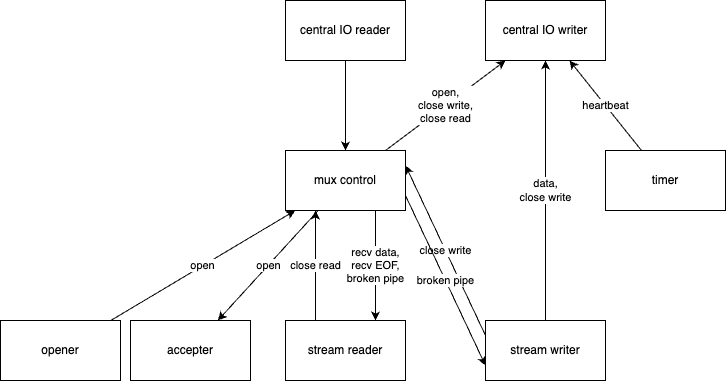
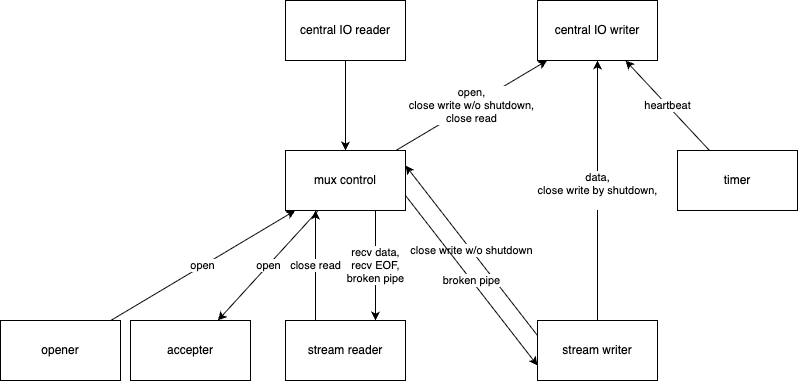
stream writer: send "write close" to peer on writer shutdown

diff --git a/tests/stream_writer.rs b/tests/stream_writer.rs
@@ -1,0 +1,104 @@
+use std::time::Duration;
+
+use mux::{spawn_mux_no_reconnection, Initiation, MuxConfig};
+use tokio::{
+    io::{duplex, AsyncReadExt, AsyncWriteExt},
+    task::JoinSet,
+};
+
+// A large buffer for the duplex pipes so that the central io writers never
+// block on writes during the test.
+const DUPLEX_BUF: usize = 64 * 1024;
+
+// Spins up a pair of mux endpoints connected through tokio duplex pipes and
+// returns the client-side opener, the server-side accepter and the join set
+// holding the background tasks.
+fn spawn_mux_pair() -> (
+    mux::StreamOpener,
+    mux::StreamAccepter,
+    JoinSet<mux::MuxError>,
+) {
+    let mut spawner = JoinSet::new();
+
+    // (client_read, server_write) and (server_read, client_write) form the two
+    // directions of the underlying byte stream.
+    let (client_read, server_write) = duplex(DUPLEX_BUF);
+    let (server_read, client_write) = duplex(DUPLEX_BUF);
+
+    let (client_opener, _client_accepter) = spawn_mux_no_reconnection(
+        client_read,
+        client_write,
+        MuxConfig {
+            initiation: Initiation::Client,
+            heartbeat_interval: Duration::from_secs(60),
+        },
+        &mut spawner,
+    );
+    let (_server_opener, server_accepter) = spawn_mux_no_reconnection(
+        server_read,
+        server_write,
+        MuxConfig {
+            initiation: Initiation::Server,
+            heartbeat_interval: Duration::from_secs(60),
+        },
+        &mut spawner,
+    );
+
+    (client_opener, server_accepter, spawner)
+}
+
+#[tokio::test(flavor = "multi_thread")]
+async fn manual_shutdown_reaches_peer() {
+    let (client_opener, mut server_accepter, _spawner) = spawn_mux_pair();
+
+    // Open a stream from the client and accept it on the server.
+    let (_client_reader, mut client_writer) = client_opener.open().await.unwrap();
+    let (mut server_reader, _server_writer) = server_accepter.accept().await.unwrap();
+
+    // Perform the manual shutdown on the writer.
+    client_writer.shutdown().await.unwrap();
+
+    // The peer must observe EOF on its reader: a read of any size returns 0.
+    let mut buf = [0u8; 8];
+    let n = server_reader.read(&mut buf).await.unwrap();
+    assert_eq!(n, 0, "peer reader should observe EOF after shutdown");
+}
+
+#[tokio::test(flavor = "multi_thread")]
+async fn drop_writer_does_not_break_peer() {
+    let (client_opener, mut server_accepter, _spawner) = spawn_mux_pair();
+
+    // Open a stream from the client and accept it on the server.
+    let (_client_reader, client_writer) = client_opener.open().await.unwrap();
+    let (mut server_reader, mut server_writer) = server_accepter.accept().await.unwrap();
+
+    // Drop the client-side writer without an explicit shutdown.
+    drop(client_writer);
+    // Give the background tasks a moment to process the close message that
+    // the StreamCloseTx Drop emits.
+    tokio::task::yield_now().await;
+
+    // Dropping the client writer should not break the mux connection: the
+    // peer must still be able to open new streams and exchange data.
+    let (mut client_reader2, _client_writer2) = client_opener.open().await.unwrap();
+    let (_server_reader2, mut server_writer2) = server_accepter.accept().await.unwrap();
+
+    let payload = b"still alive";
+    server_writer2.write_all(payload).await.unwrap();
+    server_writer2.shutdown().await.unwrap();
+
+    let mut got = [0u8; 11];
+    client_reader2.read_exact(&mut got).await.unwrap();
+    assert_eq!(&got, payload);
+
+    // The peer's reader on the first stream should observe EOF (the dropped
+    // writer triggers a close-write control message, which surfaces as a
+    // graceful EOF rather than a broken pipe).
+    let mut buf = [0u8; 8];
+    let n = server_reader.read(&mut buf).await.unwrap();
+    assert_eq!(n, 0, "dropping writer should surface as graceful EOF");
+
+    // The peer's writer on the first stream should still be usable enough to
+    // be shut down cleanly without panicking.
+    server_writer.shutdown().await.unwrap();
+}

diff --git a/src/stream/writer.rs b/src/stream/writer.rs
@@ -4,7 +4,7 @@ use std::{
     num::NonZeroUsize,
     ops::DerefMut,
     pin::Pin,
-    task::{ready, Context, Poll},
+    task::{ready, Context, Poll, Waker},
 };
 
 use primitive::arena::obj_pool::ArcObjPool;
@@ -28,14 +28,6 @@ struct StreamWriterState {
     broken_pipe: WriteBrokenPipe,
     close: Option<StreamCloseTx>,
     buf_pool: ArcObjPool<Vec<u8>>,
-}
-impl Drop for StreamWriterState {
-    fn drop(&mut self) {
-        let Some(mut close) = self.close.take() else {
-            return;
-        };
-        close.no_send_to_peer()
-    }
 }
 impl StreamWriterState {
     pub fn new(broken_pipe: WriteBrokenPipe, close: StreamCloseTx) -> Self {
@@ -68,6 +60,24 @@ impl StreamWriterState {
             .map_err(SendError::DeadCentralIo)?;
         Ok(data_len).into()
     }
+    pub fn poll_shutdown(
+        &mut self,
+        data: &mut PollStreamWriteDataTx,
+        cx: &mut Context<'_>,
+    ) -> Poll<Result<(), SendError>> {
+        if self.close.is_none() {
+            return Ok(()).into();
+        }
+        if self.broken_pipe.is_closed() {
+            return Err(SendError::PeerClosedStream).into();
+        }
+        ready!(data.poll_preserve(cx)).map_err(SendError::DeadCentralIo)?;
+        data.send_item(StreamWriteData::Fin)
+            .map_err(SendError::DeadCentralIo)?;
+        let mut close = self.close.take().unwrap();
+        close.mark_close_sent_to_peer();
+        Ok(()).into()
+    }
 }
 #[derive(Debug)]
 pub enum SendError {
@@ -81,6 +91,12 @@ pub struct StreamWriter {
     data: PollStreamWriteDataTx,
     state: StreamWriterState,
 }
+impl Drop for StreamWriter {
+    fn drop(&mut self) {
+        let mut cx = Context::from_waker(Waker::noop());
+        let _ = self.poll_shutdown_(&mut cx);
+    }
+}
 impl StreamWriter {
     pub(crate) fn new(
         data: StreamWriteDataTx,
@@ -93,6 +109,12 @@ impl StreamWriter {
             state,
         }
     }
+    fn poll_write_(&mut self, buf: &[u8], cx: &mut Context<'_>) -> Poll<Result<usize, SendError>> {
+        self.state.poll_write(&mut self.data, buf, cx)
+    }
+    fn poll_shutdown_(&mut self, cx: &mut Context<'_>) -> Poll<Result<(), SendError>> {
+        self.state.poll_shutdown(&mut self.data, cx)
+    }
     pub async fn write(&mut self, buf: &[u8]) -> Result<usize, SendError> {
         struct StreamWriterWrite<'a> {
             wtr: &'a mut StreamWriter,
@@ -102,10 +124,23 @@ impl StreamWriter {
             type Output = Result<usize, SendError>;
             fn poll(mut self: Pin<&mut Self>, cx: &mut Context<'_>) -> Poll<Self::Output> {
                 let this = self.deref_mut();
-                this.wtr.state.poll_write(&mut this.wtr.data, this.buf, cx)
+                this.wtr.poll_write_(this.buf, cx)
             }
         }
         StreamWriterWrite { wtr: self, buf }.await
+    }
+    pub async fn shutdown(&mut self) -> Result<(), SendError> {
+        struct StreamWriterShutdown<'a> {
+            wtr: &'a mut StreamWriter,
+        }
+        impl Future for StreamWriterShutdown<'_> {
+            type Output = Result<(), SendError>;
+            fn poll(mut self: Pin<&mut Self>, cx: &mut Context<'_>) -> Poll<Self::Output> {
+                let this = self.deref_mut();
+                this.wtr.poll_shutdown_(cx)
+            }
+        }
+        StreamWriterShutdown { wtr: self }.await
     }
 }
 impl AsyncWrite for StreamWriter {
@@ -115,18 +150,25 @@ impl AsyncWrite for StreamWriter {
         buf: &[u8],
     ) -> Poll<Result<usize, io::Error>> {
         let this = self.deref_mut();
-        this.state
-            .poll_write(&mut this.data, buf, cx)
-            .map_err(|e| match e {
-                SendError::LocalClosedStream => io::ErrorKind::NotConnected.into(),
-                SendError::PeerClosedStream => io::ErrorKind::BrokenPipe.into(),
-                SendError::DeadCentralIo(_) => io::ErrorKind::BrokenPipe.into(),
-            })
+        this.poll_write_(buf, cx)
+            .map_err(map_send_error_to_io_error)
     }
     fn poll_flush(self: Pin<&mut Self>, _cx: &mut Context<'_>) -> Poll<Result<(), io::Error>> {
         Ok(()).into()
     }
-    fn poll_shutdown(self: Pin<&mut Self>, _cx: &mut Context<'_>) -> Poll<Result<(), io::Error>> {
-        Ok(()).into()
+    fn poll_shutdown(
+        mut self: Pin<&mut Self>,
+        cx: &mut Context<'_>,
+    ) -> Poll<Result<(), io::Error>> {
+        let this = self.deref_mut();
+        this.poll_shutdown_(cx).map_err(map_send_error_to_io_error)
+    }
+}
+
+fn map_send_error_to_io_error(e: SendError) -> io::Error {
+    match e {
+        SendError::LocalClosedStream => io::ErrorKind::NotConnected.into(),
+        SendError::PeerClosedStream => io::ErrorKind::BrokenPipe.into(),
+        SendError::DeadCentralIo(_) => io::ErrorKind::BrokenPipe.into(),
     }
 }

diff --git a/src/stream/mod.rs b/src/stream/mod.rs
@@ -18,7 +18,7 @@ pub struct StreamInitHandle {
 pub struct StreamCloseMsg {
     pub side: Side,
     pub stream_id: StreamId,
-    pub no_send_to_peer: bool,
+    pub already_sent_to_peer: bool,
 }
 pub fn stream_close_channel() -> (StreamCloseTxPrototype, StreamCloseRx) {
     let (tx, rx) = tokio::sync::mpsc::unbounded_channel();
@@ -36,7 +36,7 @@ impl StreamCloseTxPrototype {
             stream_id,
             side,
             tx: self.tx.clone(),
-            no_send_to_peer: false,
+            already_sent_to_peer: false,
         }
     }
 }
@@ -45,11 +45,11 @@ pub struct StreamCloseTx {
     stream_id: StreamId,
     side: Side,
     tx: tokio::sync::mpsc::UnboundedSender<StreamCloseMsg>,
-    no_send_to_peer: bool,
+    already_sent_to_peer: bool,
 }
 impl StreamCloseTx {
-    pub fn no_send_to_peer(&mut self) {
-        self.no_send_to_peer = true;
+    pub fn mark_close_sent_to_peer(&mut self) {
+        self.already_sent_to_peer = true;
     }
 }
 impl Drop for StreamCloseTx {
@@ -57,7 +57,7 @@ impl Drop for StreamCloseTx {
         let msg = StreamCloseMsg {
             stream_id: self.stream_id,
             side: self.side,
-            no_send_to_peer: self.no_send_to_peer,
+            already_sent_to_peer: self.already_sent_to_peer,
         };
         let _ = self.tx.send(msg);
     }

diff --git a/src/control.rs b/src/control.rs
@@ -48,7 +48,7 @@ pub async fn run_control(args: RunControlArgs) -> Result<(), RunControlError> {
             res = stream_close_rx.recv() => {
                 let msg = res.unwrap();
                 control.local_close(msg.stream_id, msg.side);
-                if !msg.no_send_to_peer {
+                if !msg.already_sent_to_peer {
                     let control_msg = WriteControlMsg::Close(msg.stream_id, msg.side);
                     if let Err(e) = write_control_tx.send(control_msg).await {
                         break e;